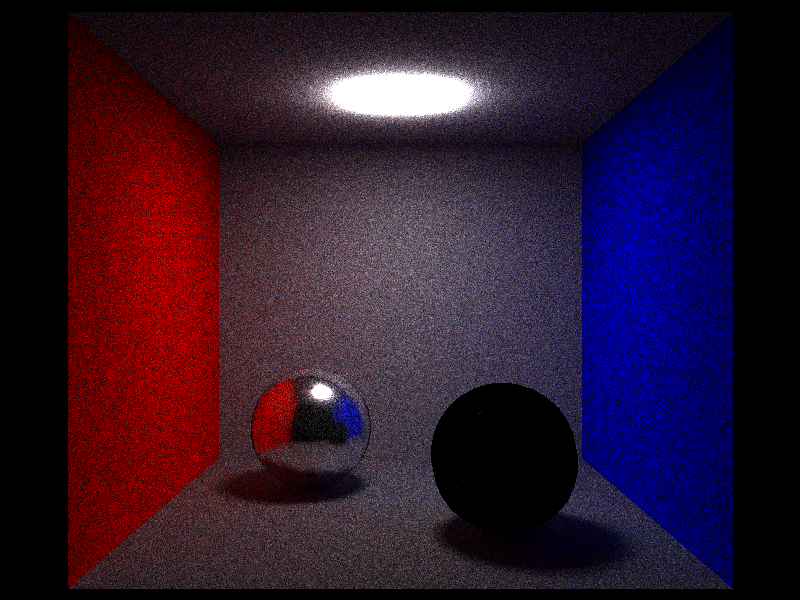
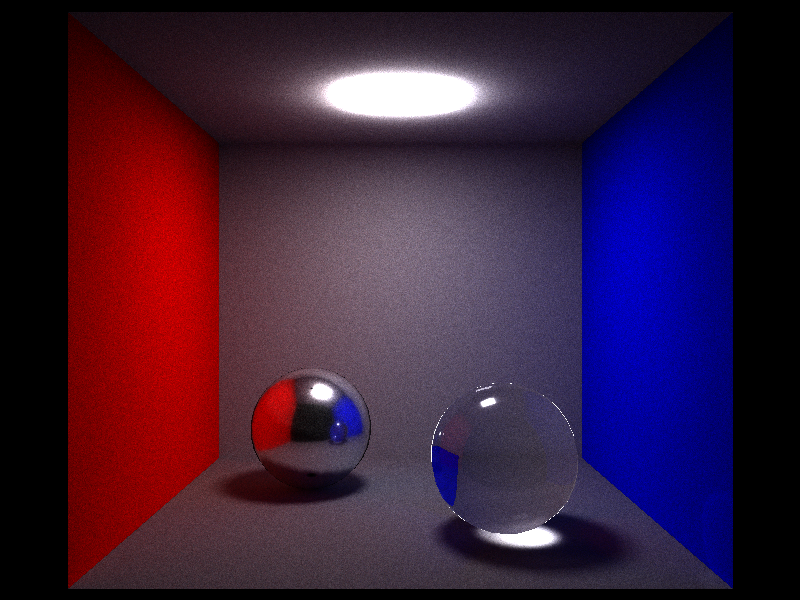
10000 Samples

diff --git a/CVMCTracer/CVMCTracer/CUDA/Utils.hpp b/CVMCTracer/CVMCTracer/CUDA/Utils.hpp
@@ -90,7 +90,7 @@ namespace PW
                 /* In */
                 if (ndoti <= 0)
                 {
-                    PWfloat alpha = -ndoti / Ni - sqrt(1 - (1 - ndoti * ndoti) / Ni / Ni);
+                    PWfloat alpha = ndoti / Ni - sqrt(1 - (1 - ndoti * ndoti) / Ni / Ni);
                     outdir.x = alpha * normal.x + indir.x / Ni;
                     outdir.y = alpha * normal.y + indir.y / Ni;
                     outdir.z = alpha * normal.z + indir.z / Ni;
@@ -104,7 +104,7 @@ namespace PW
                     {
                         return PWVector3f(0, 0, 0);
                     }
-                    PWfloat alpha = -ndoti * Ni - sqrt(test);
+                    PWfloat alpha = ndoti * Ni - sqrt(test);
                     outdir.x = alpha * normal.x + indir.x * Ni;
                     outdir.y = alpha * normal.y + indir.y * Ni;
                     outdir.z = alpha * normal.z + indir.z * Ni;

diff --git a/CVMCTracer/CVMCTracer/stdafx.h b/CVMCTracer/CVMCTracer/stdafx.h
@@ -30,6 +30,6 @@ using PWVector4f = struct _PWVector4f
 
 const PWuint IMG_WIDTH = 800;
 const PWuint IMG_HEIGHT = 600;
-const PWuint NUM_SAMPLES = 1000;
-#define ILLUM 50
+const PWuint NUM_SAMPLES = 10000;
+#define ILLUM 60
 #define PW_PI 3.14159265359f
